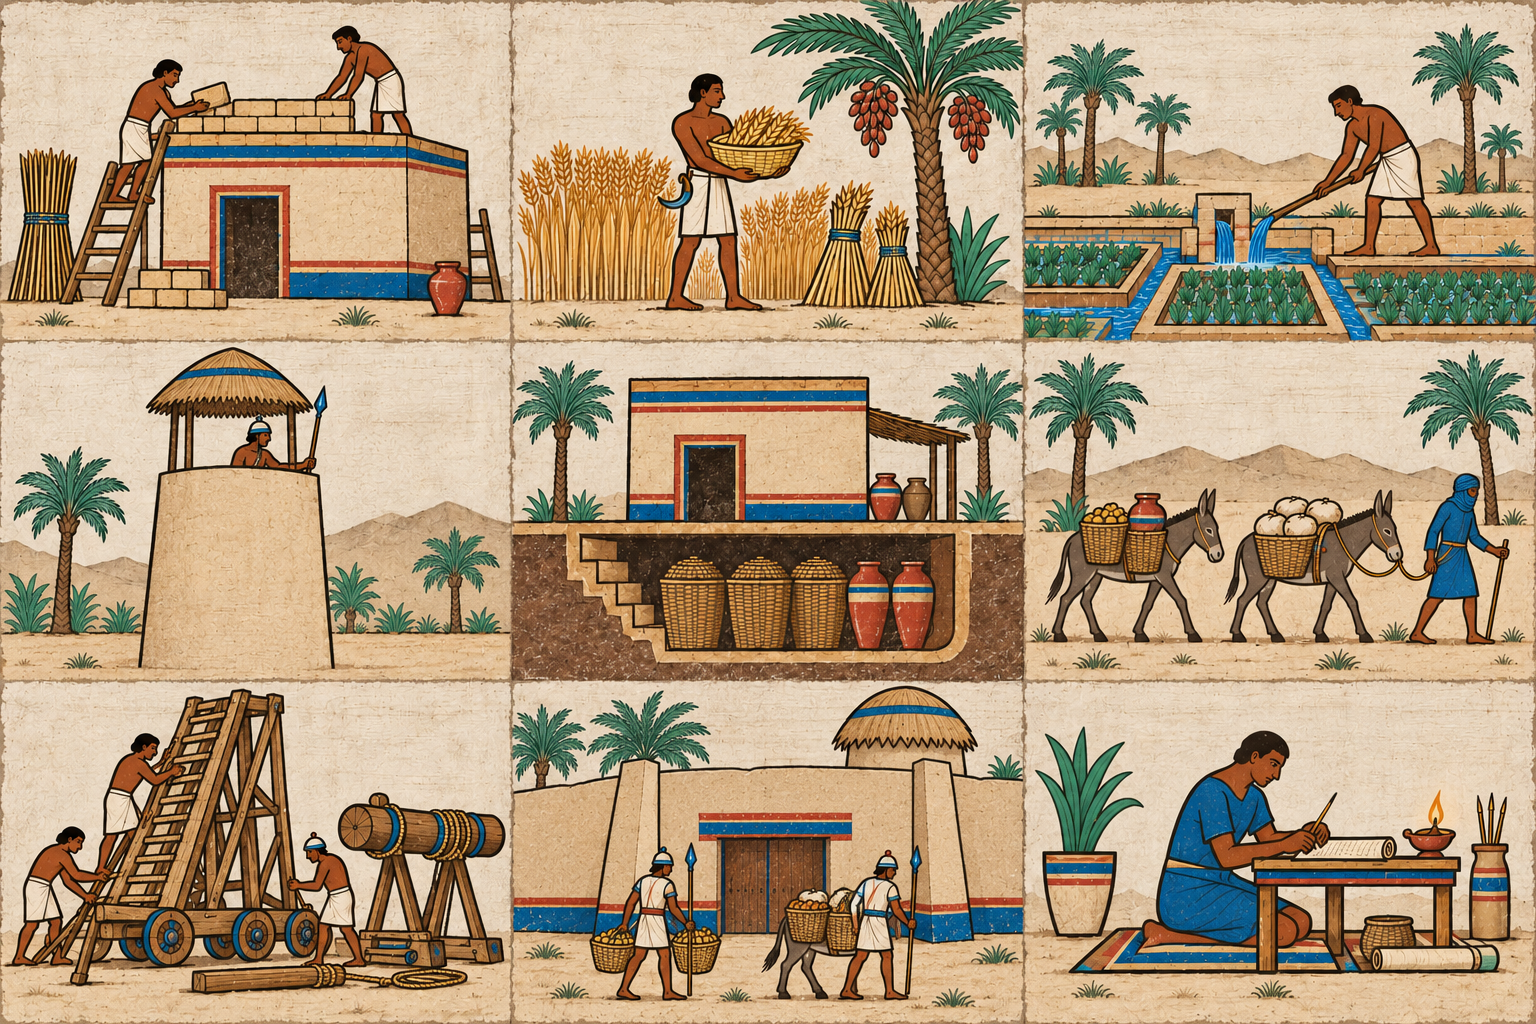
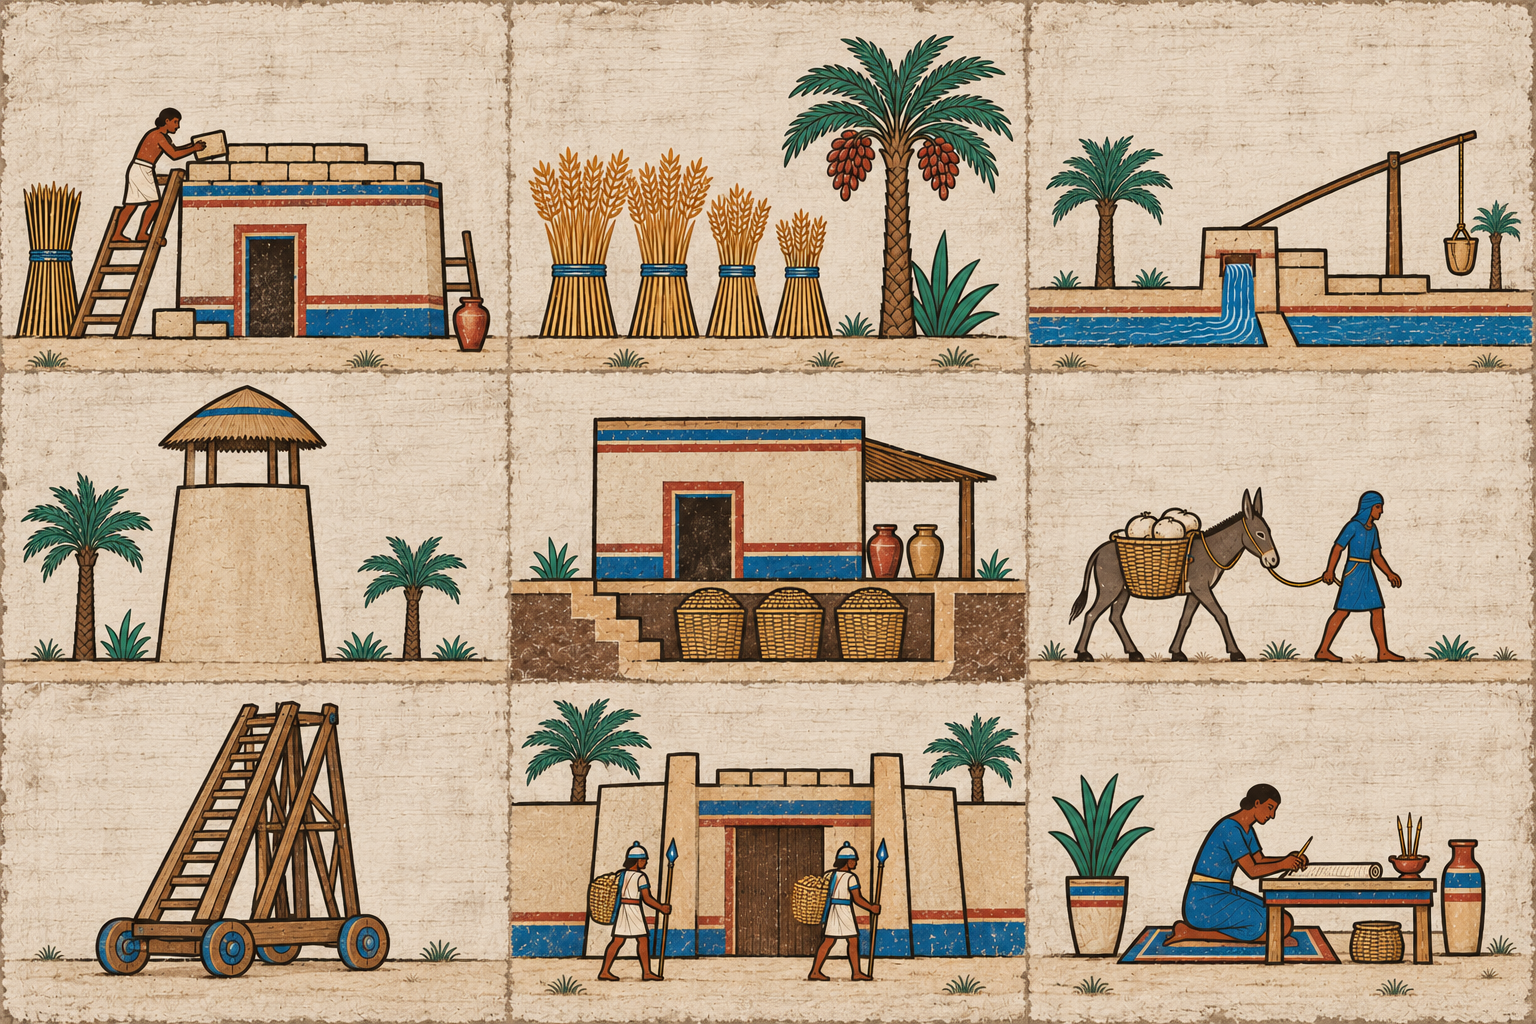
Unify fresco artwork and add city and report thumbnails

diff --git a/simulation/templates/simulation/letter_entries.html b/simulation/templates/simulation/letter_entries.html
@@ -1,7 +1,11 @@
 {% load i18n %}
 {% for report in reports %}<article class="letter-entry" id="report-{{ report.id }}">
-    <p class="letter-date">{% blocktranslate with v0=report.month %}Lune {{ v0 }}{% endblocktranslate %}{% if report.original_archive %} · {% translate "Archive originale en français" %}{% endif %}</p>
-    <h3>{% include 'simulation/nav_icon.html' with icon=report.icon %}{{ report.title }}</h3>
-    {% if not compact %}{% include "simulation/illustration.html" with scene=report.scene %}{% endif %}
+    <div class="letter-heading">
+        {% include "simulation/illustration.html" with scene=report.scene compact=True %}
+        <div>
+            <p class="letter-date">{% blocktranslate with v0=report.month %}Lune {{ v0 }}{% endblocktranslate %}{% if report.original_archive %} · {% translate "Archive originale en français" %}{% endif %}</p>
+            <h3>{{ report.title }}</h3>
+        </div>
+    </div>
     <div class="letter-text">{% if compact %}<p>{{ report.body|truncatewords:35 }}</p>{% else %}{{ report.body|linebreaks }}{% endif %}{% if compact %}<p><a href="?tab=letters#report-{{ report.id }}">{% translate "Lire le rapport complet" %} →</a></p>{% else %}<p class="signature">{% blocktranslate with v0=report.month %}Consigné par votre scribe à la lune {{ v0 }}.{% endblocktranslate %}</p><p class="reading-links"><a href="?tab=domain">← {% translate "Retour au conseil" %}</a></p>{% endif %}</div>
 </article>{% empty %}<p>{% translate "Le scribe n’a rien de nouveau à consigner." %}</p>{% endfor %}

diff --git a/simulation/static/simulation/manuscript.css b/simulation/static/simulation/manuscript.css
@@ -289,11 +289,16 @@ strong {
 .letter-entry h3 {
   margin-top: 0;
 }
-.letter-entry h3 .nav-icon {
-  width: 1em;
-  height: 1em;
-  margin-right: 0.4em;
-  vertical-align: -0.1em;
+.letter-heading {
+  display: grid;
+  grid-template-columns: 5rem minmax(0, 1fr);
+  align-items: center;
+  gap: 0.75rem;
+  margin-bottom: 0.6rem;
+}
+.letter-heading h3,
+.letter-heading .letter-date {
+  margin: 0;
 }
 .decree-choice p:last-child,
 .order-entry p:last-child {
@@ -306,7 +311,7 @@ strong {
 }
 .city-ledger .city-entry {
   display: grid;
-  grid-template-columns: 7rem minmax(0, 1fr);
+  grid-template-columns: 5rem 7rem minmax(0, 1fr);
   align-items: center;
   gap: 0.75rem;
 }
@@ -741,8 +746,11 @@ input[type="number"] {
 }
 @media (max-width: 600px) {
   .city-ledger .city-entry {
-    grid-template-columns: minmax(0, 1fr);
-    gap: 0.2rem;
+    grid-template-columns: 5rem minmax(0, 1fr);
+    gap: 0.5rem 0.75rem;
+  }
+  .city-ledger .ledger-figures {
+    grid-column: 1 / -1;
   }
   .book {
     width: calc(100% - 2rem);

diff --git a/simulation/templates/simulation/city_ledger.html b/simulation/templates/simulation/city_ledger.html
@@ -10,6 +10,7 @@
     {% if view.local_funding %}<p>{% translate "Chaque cité finance ses travaux. Les cités qui fournissent une expédition en paient les frais ; aucun autre grenier ne contribue." %}</p>{% else %}<p>{% translate "Les dépenses sont réparties automatiquement entre les greniers de votre maison. Les réserves restent locales pour les pillages et le stockage." %}</p>{% endif %}
     <ul class="city-ledger">{% for city in view.owned_cities %}
         <li class="city-entry" id="city-{{ city.id }}">
+            {% include 'simulation/illustration.html' with scene='city' variant=city.id compact=True %}
             <h3><a href="?tab=city&amp;city={{ city.id }}">{{ city.name }} →</a></h3>
             <dl class="ledger-figures">
                 <div><dt>{% translate "Grenier" %}</dt><dd>{{ city.stock }} / {{ city.capacity }}</dd></div>

diff --git a/scripts/browser_smoke.py b/scripts/browser_smoke.py
@@ -219,6 +219,16 @@ with sync_playwright() as playwright:
         page.goto(game_url)
         illustration_asset(page.locator(".illustration-council"), "council.jpg")
         assert page.locator(".city-entry").count() == 3
+        for number in range(1, 4):
+            thumbnail = page.locator(f"#city-c{number} .illustration-small")
+            illustration_asset(thumbnail, "cityscapes.png")
+            expect(thumbnail).to_have_attribute("aria-hidden", "true")
+        for width in (390, 320):
+            page.set_viewport_size({"width": width, "height": 844})
+            page.evaluate("document.documentElement.style.fontSize = '125%'")
+            no_overflow(page)
+        page.evaluate("document.documentElement.style.removeProperty('font-size')")
+        page.set_viewport_size({"width": 1440, "height": 1100})
         assert page.locator(".sidebar, .stats-strip, img, table").count() == 0
         assert page.locator(".city-entry details").count() == 0
         expect(page.locator("body")).to_have_css("background-color", "rgb(253, 251, 247)")
@@ -412,6 +422,18 @@ with sync_playwright() as playwright:
         illustration_asset(
             page.locator(".illustration-offensive-raid-success"), "offensive-raid-success.jpg"
         )
+        expect(page.locator(".letter-entry > .illustration")).to_have_count(0)
+        for letter in page.locator(".letter-entry").all():
+            expect(letter.locator(".letter-heading .illustration-small")).to_have_count(1)
+        for width in (390, 320):
+            page.set_viewport_size({"width": width, "height": 844})
+            page.evaluate("document.documentElement.style.fontSize = '125%'")
+            no_overflow(page)
+        page.screenshot(
+            path=str(artifacts / f"letters-thumbnails-mobile-{language}.png"), full_page=True
+        )
+        page.evaluate("document.documentElement.style.removeProperty('font-size')")
+        page.set_viewport_size({"width": 1440, "height": 1100})
         # HTTP cases cover every recipient/outcome; decode all eight CSS assets here.
         for direction in ("offensive", "received"):
             for kind in ("raid", "capture"):
@@ -555,6 +577,7 @@ with sync_playwright() as playwright:
         )
         plain_page.locator("[data-prologue-previous]").click()
         plain_page.locator("[data-prologue-skip]").click()
+        illustration_asset(plain_page.locator("#city-c1 .illustration-small"), "cityscapes.png")
         plain_page.locator('.city-entry a[href*="city=c1"]').click()
         expect(plain_page.locator("[data-local-accounts]")).to_be_visible()
         expect(plain_page.locator(".illustration-city-c1")).to_be_visible()

diff --git a/tests/test_news_illustrations.py b/tests/test_news_illustrations.py
@@ -89,11 +89,12 @@ def test_combat_artwork(monkeypatch, kind, outcome, expected):
 
 @case(
     "news-combat-artwork-bilingual",
-    "Owner artwork: persisted recipient scenes render in full reports in French and English",
+    "Owner artwork: recipient thumbnails render in Council and full reports in both languages",
 )
 @pytest.mark.integration
 @pytest.mark.usefixtures("test_static_storage")
 @pytest.mark.parametrize("language", ["fr", "en"])
+@pytest.mark.parametrize("tab", ["domain", "letters"])
 @pytest.mark.parametrize("recipient,direction", [("p1", "offensive"), ("p2", "received")])
 @pytest.mark.parametrize(
     "kind,outcome,expected",
@@ -105,7 +106,7 @@ def test_combat_artwork(monkeypatch, kind, outcome, expected):
     ],
 )
 def test_combat_artwork_http(
-    user, monkeypatch, language, recipient, direction, kind, outcome, expected
+    user, monkeypatch, language, tab, recipient, direction, kind, outcome, expected
 ):
     game = services.create_game(user, "News artwork", opponents="passive")
     game.state, events = combat_news(monkeypatch, kind, outcome)
@@ -115,10 +116,15 @@ def test_combat_artwork_http(
     client = Client()
     client.force_login(user)
     client.cookies["django_language"] = language
-    page = client.get(reverse("game", args=[game.id]), {"tab": "letters"})
+    page = client.get(reverse("game", args=[game.id]), {"tab": tab})
     assert page.status_code == 200
     scene = f"{direction}-{kind}-{expected}"
-    assert page.content.decode().count(f'class="illustration illustration-{scene}"') == 1
+    assert (
+        page.content.decode().count(
+            f'class="illustration illustration-{scene} illustration-small" aria-hidden="true"'
+        )
+        == 1
+    )
     other = "received" if direction == "offensive" else "offensive"
     assert f"illustration-{other}-{kind}" not in page.content.decode()
     assert list(game.reports.values("id", "content", "title", "body")) == saved
@@ -157,6 +163,6 @@ def test_archive_artwork(user, variation):
     client.force_login(user)
     page = client.get(reverse("game", args=[game.id]), {"tab": "letters"})
     scene = "work" if variation == "other-kind" else "raid"
-    assert f'class="illustration illustration-{scene}"' in page.content.decode()
+    assert f'class="illustration illustration-{scene} illustration-small"' in page.content.decode()
     report.refresh_from_db()
     assert report.content == original

diff --git a/tests/test_playability_http.py b/tests/test_playability_http.py
@@ -114,6 +114,31 @@ def test_city_folio_illustration(user, language, city_id):
 
 
 @case(
+    "illustrations-city-list-thumbnails",
+    "Owner imagery revision: city accounts show each owned city's matching decorative thumbnail",
+)
+@pytest.mark.parametrize("language", ["fr", "en"])
+@pytest.mark.parametrize(
+    "actor,city_ids",
+    [("p1", ["c1", "c2", "c3"]), ("p2", ["c4", "c5", "c6"]), ("p3", ["c7", "c8", "c9"])],
+)
+def test_city_list_thumbnails(user, language, actor, city_ids):
+    game = services.create_game(user, "City thumbnails", opponents="passive")
+    game.memberships.update(actor=actor)
+    client = Client()
+    client.force_login(user)
+    client.cookies["django_language"] = language
+    page = client.get(reverse("game", args=[game.id]), {"tab": "domain"})
+    text = page.content.decode()
+    entries = re.findall(r'<li class="city-entry".*?</li>', text, re.S)
+    assert len(entries) == 3
+    for entry, city_id in zip(entries, city_ids, strict=True):
+        assert f'illustration-city-{city_id} illustration-small" aria-hidden="true"' in entry
+        assert f"?tab=city&amp;city={city_id}" in entry
+    assert text.count('class="illustration illustration-city ') == 3
+
+
+@case(
     "illustrations-city-retains-identity",
     "Owner cityscapes: a city's illustration stays attached to the city when its house changes",
 )

diff --git a/docs/decisions.md b/docs/decisions.md
@@ -1,5 +1,12 @@
 # Implementation decisions
 
+## 2026-10-22 · Consistent frescoes and list thumbnails
+
+- Use the supplied Council image as the visual reference: flat mineral colours, bold brown outlines, pale worn papyrus, simple architecture and sparse small figures. Retain Council, granary, forge and fortification originals that already match it; redraw the two nine-panel atlases, army preparation and all eight battle illustrations. Review figures for aligned heads, torsos and feet, separated limbs and supported objects; correct the floating raid basket and misleading held-city banner found during review.
+- City identities show only basic houses, a modest council porch, ordinary streets/market awnings and natural surroundings. Remove canals, managed fields, granaries, watchtowers and fortifications from cityscapes. Acquired buildings remain illustrated in their own work families, not asserted by a city's decorative identity. Stable city-ID mappings remain unchanged.
+- City accounts and both Council news and full archived letters use decorative 3:2 thumbnails. Keep larger illustrations in city folios and work family pages. Native city/report links, report text, recipient/outcome mappings and archived data remain unchanged. Thumbnail headings reflow at narrow widths and enlarged text without JavaScript.
+- Presentation verification: focused PostgreSQL rendering cases for all city groups and both report surfaces/languages, catalogue collection, lint/format and the bilingual browser journey with image decoding, narrow/enlarged layouts and no-JavaScript navigation. No core behavior changed; the gameplay reference remains accurate without revision.
+
 ## 2026-10-21 · Combat news frescoes
 
 - Owner's follow-up: each of the eight report illustrations is one continuous landscape and one moment, without a diptych, stacked registers or inset scenes. Reuse the original `army-preparation.jpg` soldier design: rounded knobbed caps, broad collars, diagonal straps, white wrapped kilts, sandals, oval banded shields and red/blue accents. Keep the fresco palette and all existing outcome/perspective mappings. This asset-only revision uses Presentation verification; gameplay reference facts remain unchanged.
